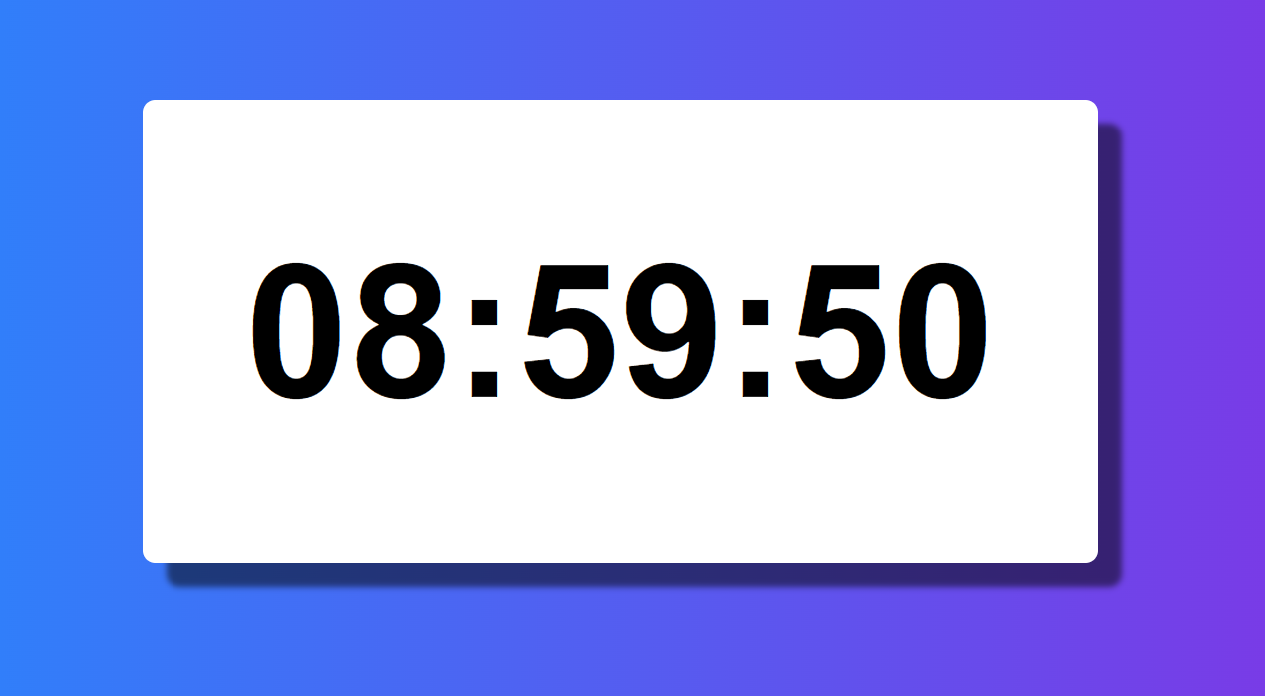
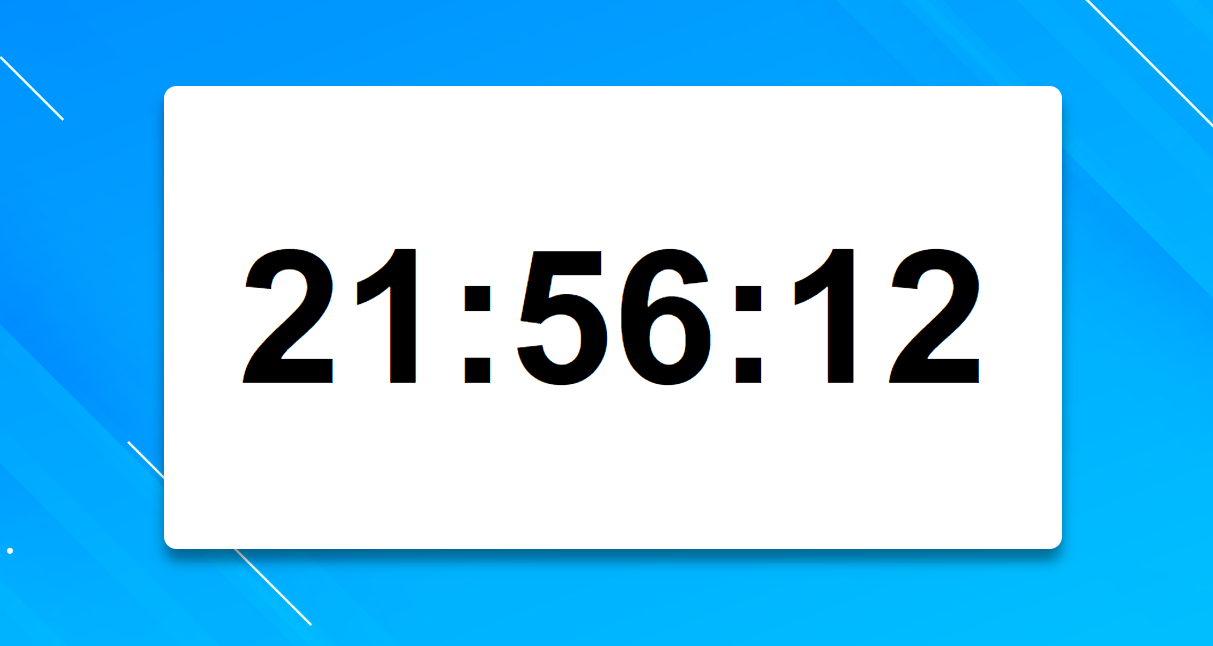
projeto_06_atualizado

diff --git a/Relógio_digital/style.css b/Relógio_digital/style.css
@@ -11,19 +11,23 @@ body{
     display: flex;
     align-items: center;
     justify-content: center;
-    background: linear-gradient(to right, dodgerblue, blueviolet);
+    background-image: url(./background.jpg);
+    background-position: center;
+    background-size: cover;
 }
 
 /*------Tempo------*/
 .tempo{
-    width: 50%;
+    width: 47%;
     height: 50vh;
     display: flex;
     align-items: center;
     justify-content: center;
     border-radius: 10px;
     background-color: white;
-    box-shadow: 19px 19px 5px rgba(0, 0, 0, 0.508);
+    -webkit-box-shadow: 0px 10px 11px -1px rgba(0,0,0,0.42);
+    -moz-box-shadow: 0px 10px 11px -1px rgba(0,0,0,0.42);
+    box-shadow: 0px 10px 11px -1px rgba(0,0,0,0.42);
 }
 
 .tempo h1{
